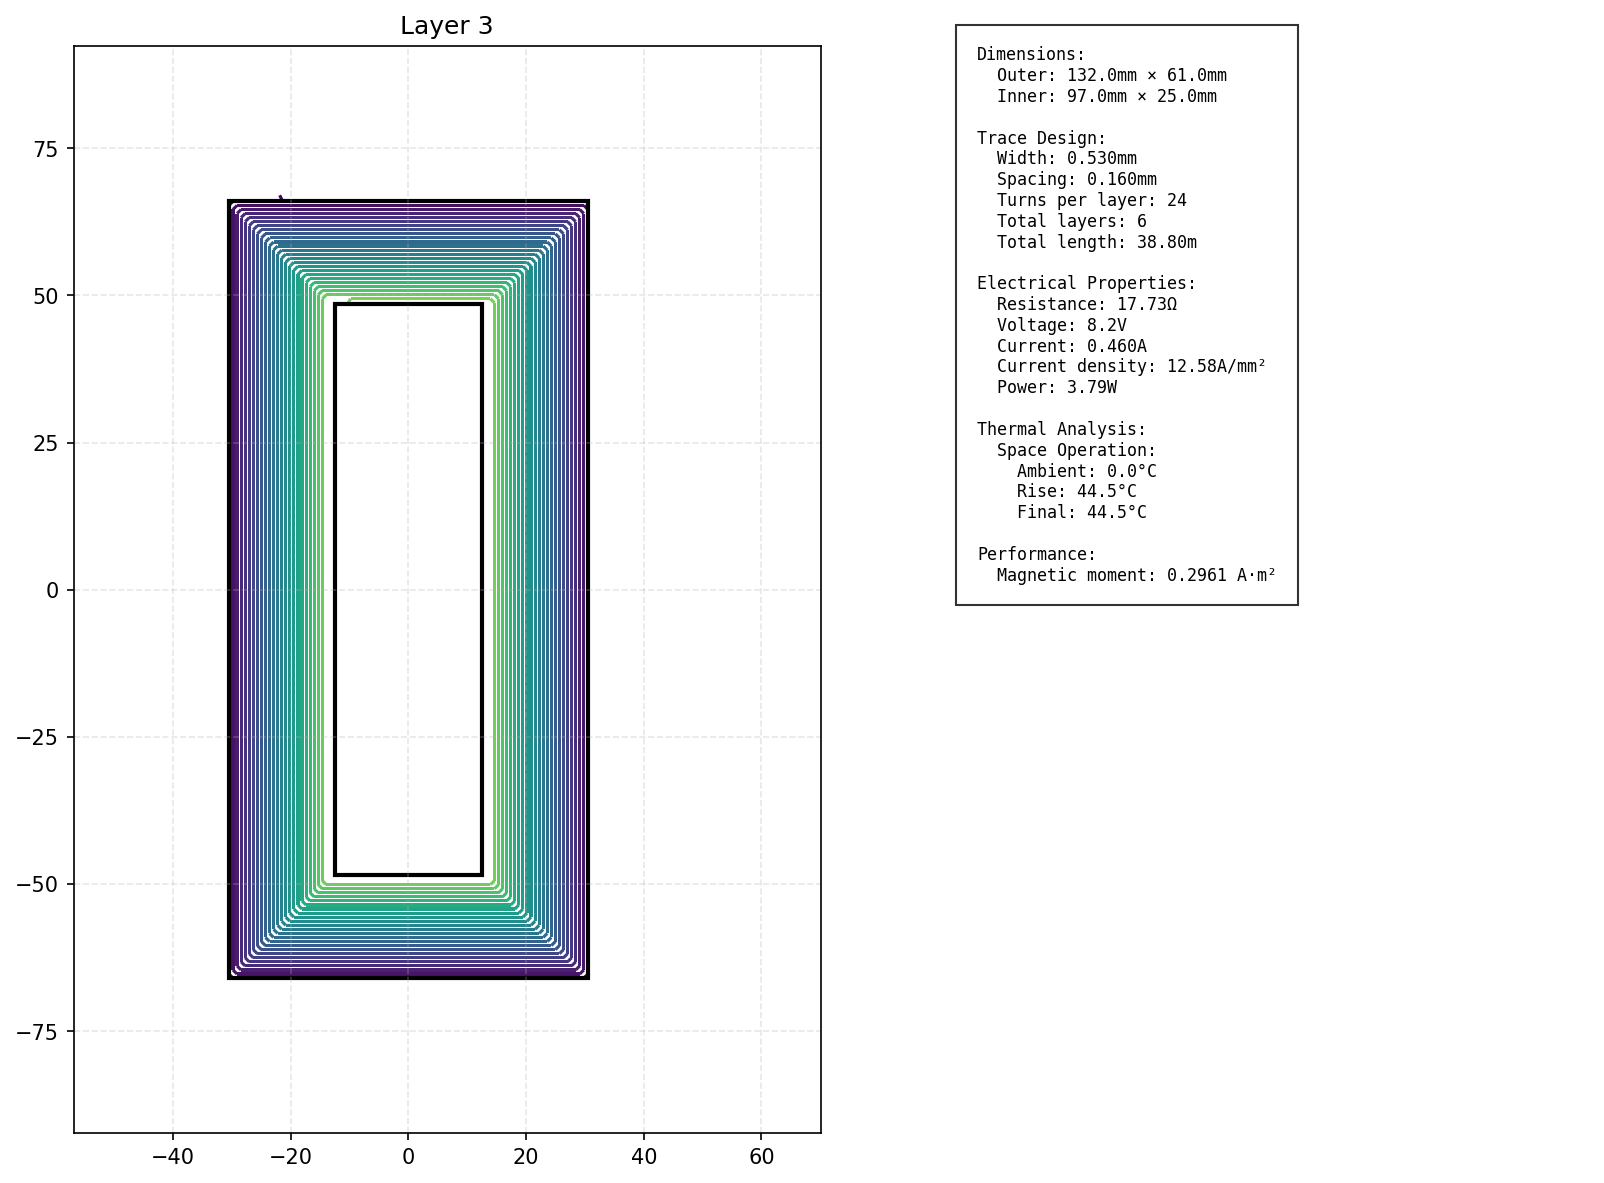
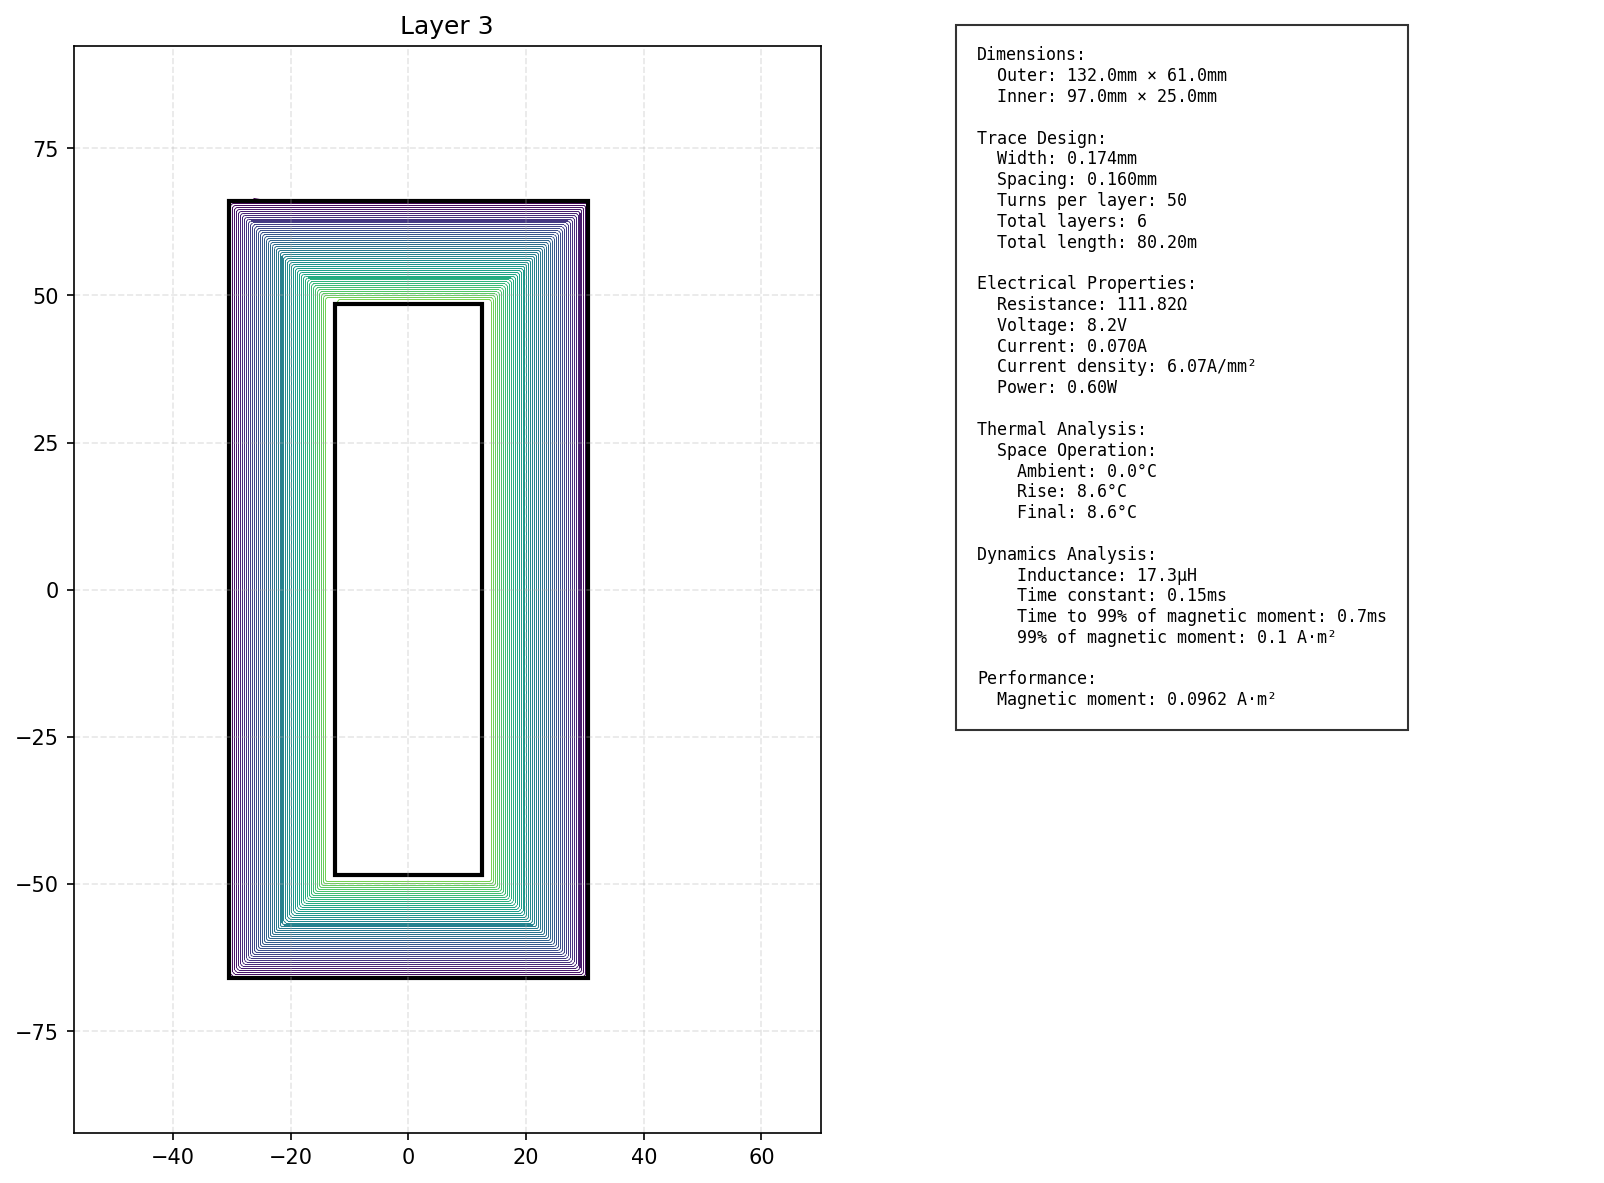
add time constant calcs
no factor

diff --git a/design.py b/design.py
@@ -186,6 +186,44 @@ class MagnetorquerDesigner:
         from scipy.optimize import fsolve
         T_final = fsolve(heat_balance, T_space + 5)[0]
         return T_final - T_space
+    
+    def calculate_inductance(self, trace_width: float) -> float:
+        """Calculate approximate inductance of the PCB coil using Wheeler's formula"""
+        num_turns = self.calculate_max_turns(trace_width)
+        if num_turns <= 0:
+            return 0
+            
+        # Calculate average diameter (in meters)
+        avg_length = (self.config.outer_length + self.config.inner_length) / 2
+        avg_width = (self.config.outer_width + self.config.inner_width) / 2
+        avg_diameter = (avg_length + avg_width) / 2
+        
+        # Wheeler's formula for rectangular coils (modified for multiple layers)
+        # L = K1 * μ0 * N² * davg * (ln(4*davg/w) - 0.5)
+        # where K1 is an empirical constant ≈ 0.4, N is number of turns, davg is average diameter
+        # and w is the trace width
+        K1 = 0.4
+        inductance = (K1 * self.config.vacuum_permeability * (num_turns * self.coil_layers)**2 * 
+                     avg_diameter * (np.log(4 * avg_diameter / trace_width) - 0.5))
+        
+        return inductance
+
+    def calculate_time_constant(self, trace_width: float) -> float:
+        """Calculate the RL time constant (tau = L/R)"""
+        inductance = self.calculate_inductance(trace_width)
+        resistance = self.calculate_resistance(trace_width)
+        
+        if resistance <= 0:
+            return 0
+            
+        return inductance / resistance
+
+    def calculate_time_to_percentage(self, trace_width: float, target_percentage: float) -> float:
+        """Calculate time to reach a target percentage of final value"""
+        tau = self.calculate_time_constant(trace_width)
+        # Using the formula: percentage = 1 - e^(-t/tau)
+        # Solving for t: t = -tau * ln(1 - percentage)
+        return -tau * np.log(1 - target_percentage)
 
     def calculate_magnetic_moment(self, trace_width: float, current: float) -> float:
         """Calculate magnetic moment of coil"""
@@ -246,7 +284,7 @@ class MagnetorquerDesigner:
     def analyze_result(self, trace_width: float) -> dict:
         """Analyze design results"""
         resistance = self.calculate_resistance(trace_width)
-        current = self.calculate_current(resistance, trace_width)  # Returns amps
+        current = self.calculate_current(resistance, trace_width)
         num_turns = self.calculate_max_turns(trace_width)
         
         # Calculate total wire length
@@ -255,12 +293,17 @@ class MagnetorquerDesigner:
         total_length *= self.coil_layers
         
         # Calculate performance metrics
-        power = current * self.config.voltage  # Power in watts
+        power = current * self.config.voltage
         temp_rise = self.calculate_temperature_rise(power)
         moment = self.calculate_magnetic_moment(trace_width, current)
         
         # Current density in A/m²
         current_density = current / (trace_width * self.copper_thickness)
+        
+        # Calculate time constant metrics
+        inductance = self.calculate_inductance(trace_width)
+        time_constant = self.calculate_time_constant(trace_width)
+        time_to_99_percent = self.calculate_time_to_percentage(trace_width, 0.99)
         
         return {
             "dimensions": {
@@ -274,29 +317,35 @@ class MagnetorquerDesigner:
                 }
             },
             "traces": {
-                "width": round(trace_width * 1000, 3),                      # mm
+                "width": round(trace_width * 1000, 3),                      # mm      
                 "spacing": round(self.config.min_trace_spacing * 1000, 3),  # mm
-                "turns_per_layer": num_turns,
-                "total_layers": self.config.num_layers,
+                "turns_per_layer": num_turns,                               # [dimensionless]
+                "total_layers": self.config.num_layers,                     # [dimensionless]
                 "total_length": round(total_length, 1)                      # m
             },
             "electrical": {
                 "resistance": round(resistance, 2),                         # Ω
                 "voltage": round(self.config.voltage, 2),                   # V
-                "current": round(current, 2),                                  # A
+                "current": round(current, 2),                               # A
                 "power": round(current * self.config.voltage, 2),           # W
-                "current_density": round(current_density/1e6, 2)            # A/mm²
+                "current_density": round(current_density/1e6, 2)            # A/mm^2
             },
             "thermal": {
                 "space": {
-                    "ambient": 0.0,                                         # °C
-                    "temperature_rise": round(temp_rise, 2),                # °C
-                    "final_temperature": round(temp_rise, 2)                # °C
+                    "ambient": 0.0,                                         # ºC
+                    "temperature_rise": round(temp_rise, 2),                # ºC
+                    "final_temperature": round(temp_rise, 2)                # ºC
                 }
+            },
+            "dynamics": {
+                "inductance": round(inductance * 1000, 3),                  # μH
+                "time_constant": round(time_constant * 1000, 2),            # ms
+                "time_to_99_percent": round(time_to_99_percent * 1000, 2),  # ms
+                "max_moment_99_percent": round(moment * 0.9, 4)             # A·m²
             },
             "performance": {
                 "magnetic_moment": round(moment, 4)                         # A·m²
-            }
+            },
         }
 
 def main():

diff --git a/2d-sketch.py b/2d-sketch.py
@@ -42,6 +42,13 @@ def format_design_info(data):
     info.append(f"    Ambient: {data['thermal']['space']['ambient']:.1f}°C")
     info.append(f"    Rise: {data['thermal']['space']['temperature_rise']:.1f}°C")
     info.append(f"    Final: {data['thermal']['space']['final_temperature']:.1f}°C")
+
+    # Dynamics
+    info.append("\nDynamics Analysis:")
+    info.append(f"    Inductance: {data['dynamics']['inductance']:.1f}μH")
+    info.append(f"    Time constant: {data['dynamics']['time_constant']:.2f}ms")
+    info.append(f"    Time to 99% of magnetic moment: {data['dynamics']['time_to_99_percent']:.1f}ms")
+    info.append(f"    99% of magnetic moment: {data['dynamics']['max_moment_99_percent']:.1f} A·m²")
     
     # Performance
     info.append("\nPerformance:")
